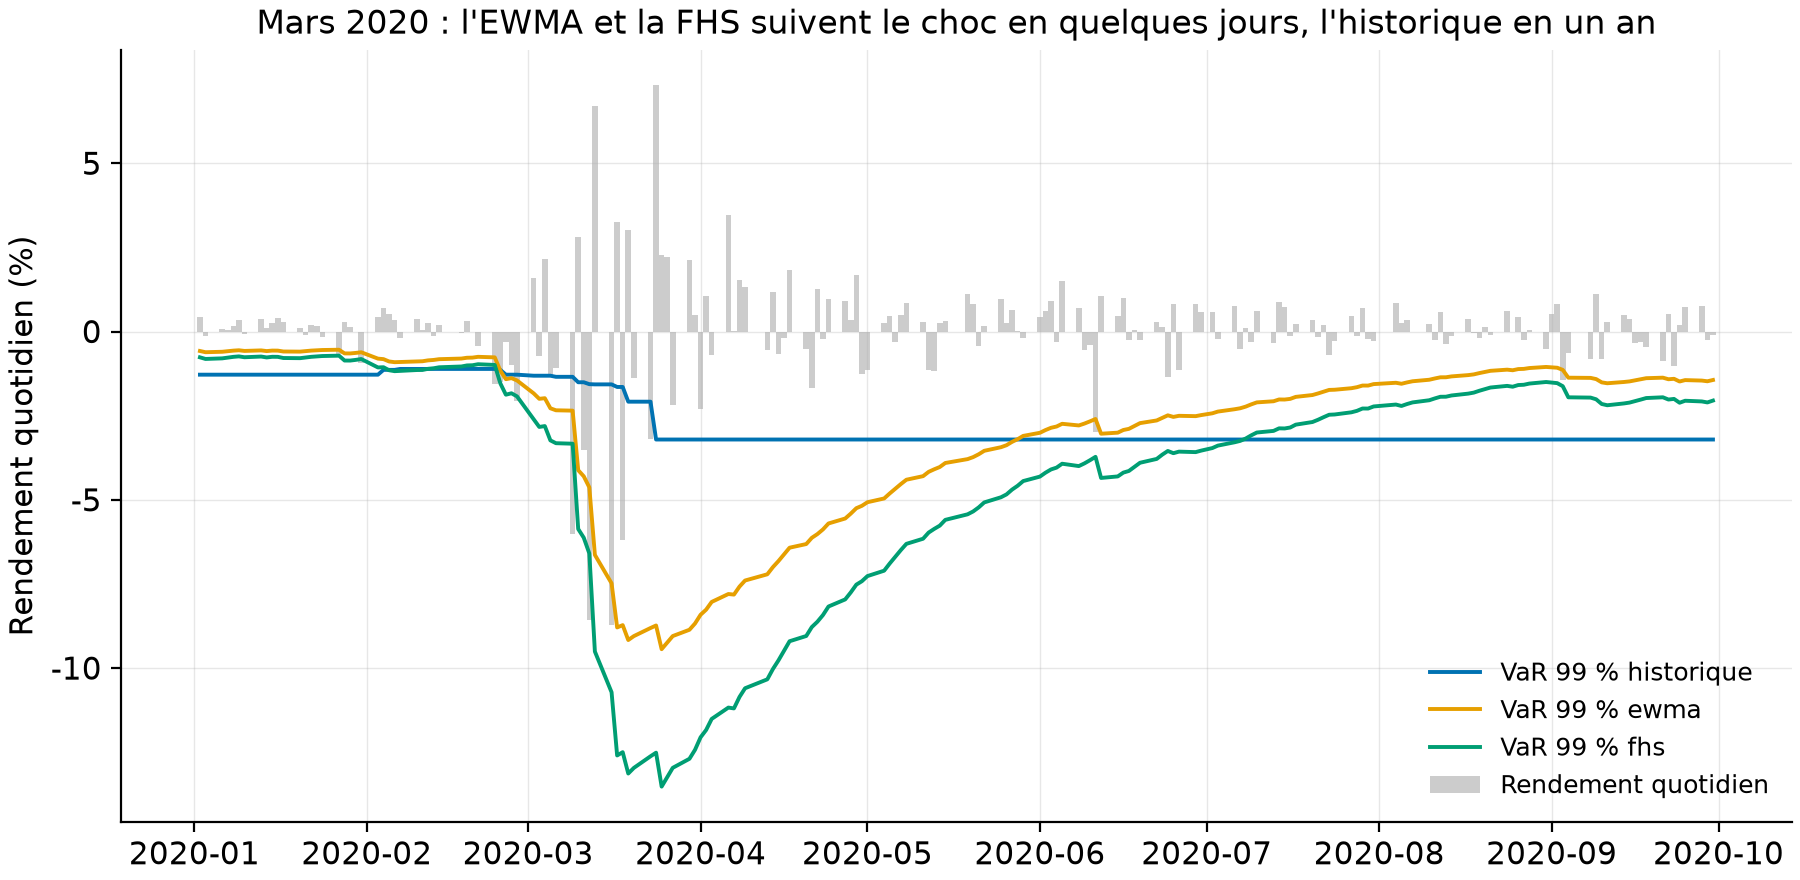
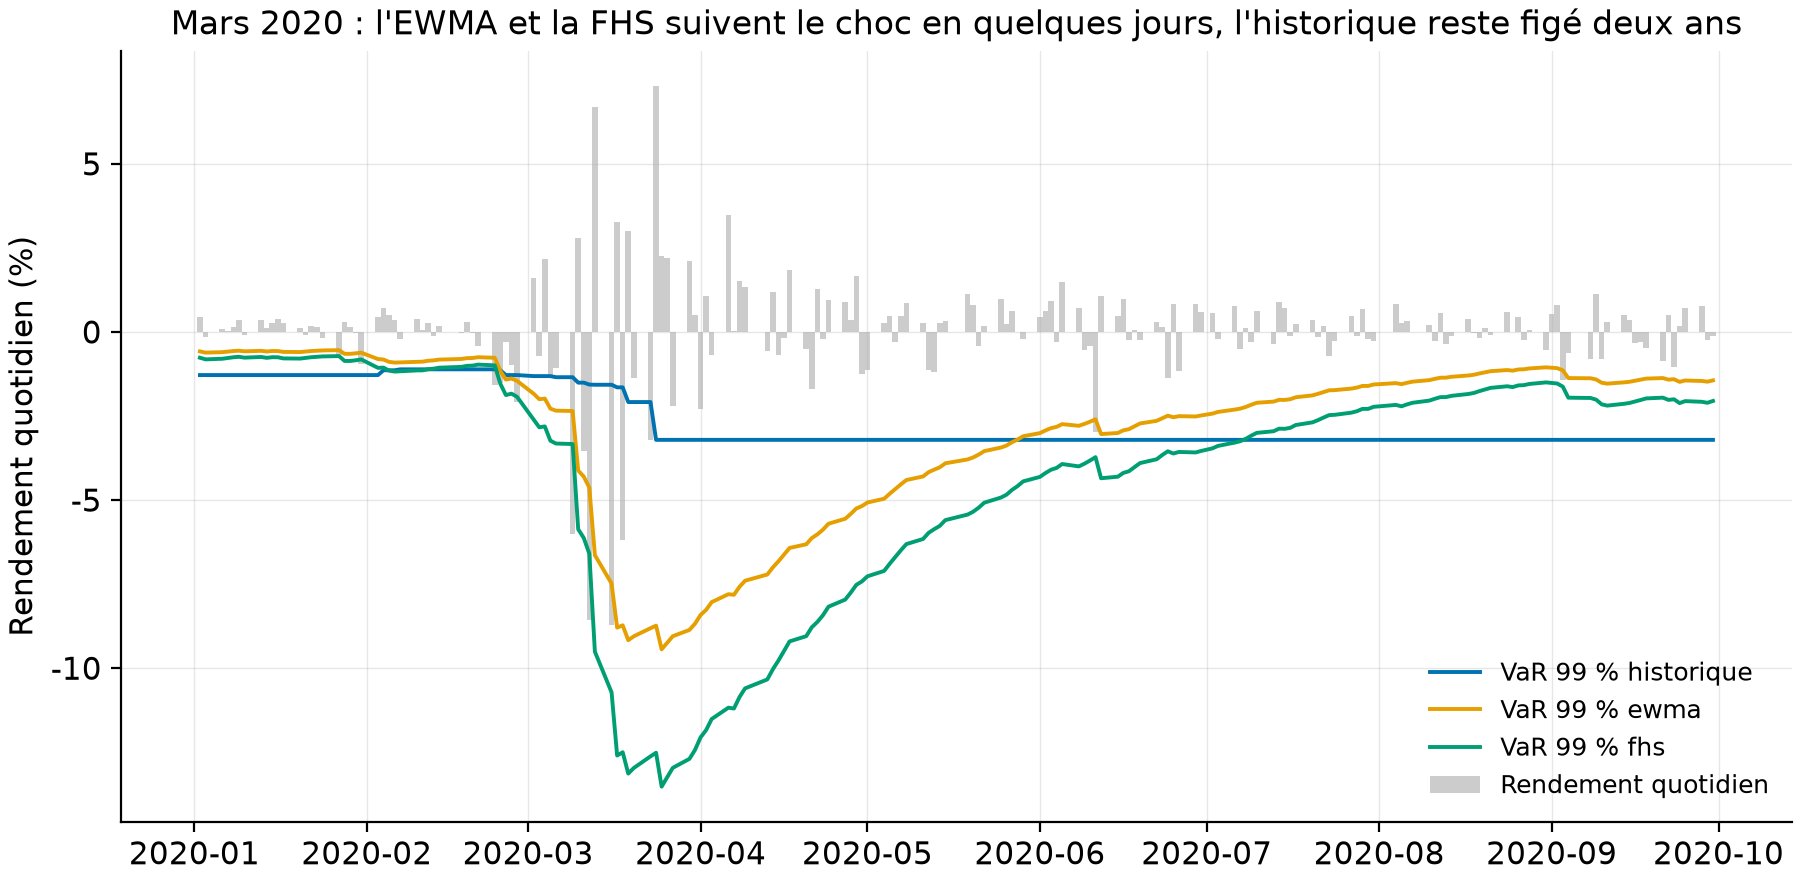
Six écarts de la vérification adversariale corrigés : fenêtre 500 j dans la légende et la figure, arrondis exacts
- figure du cône : étiquette « historique (500 j) » (250 était faux), titre de la réactivité
  ajusté (le plateau historique tient deux ans, jusqu'en mars 2022)
- README : 1,74 % (pas 1,75), ratio ES FHS 0,97 (pas 0,98), plateau 3,2 % jusqu'en mars 2022,
  FHS jusqu'à 13,5 %, classement ES précisé (le Student recule derrière le GARCH)
- vérification adversariale par ailleurs blanche : formules refaites à la main conformes
  (Kupiec, Christoffersen, Bâle, Z2, ES gaussien et Student, EWMA, GARCH), zéro fuite temporelle

diff --git a/src/rke/figures.py b/src/rke/figures.py
@@ -39,7 +39,7 @@ def fig_var_cone(returns: pd.Series, var_hist: pd.Series, var_fhs: pd.Series,
     fig, ax = plt.subplots(figsize=(10, 4.6))
     r = returns.reindex(var_fhs.index)
     ax.plot(r.index, 100 * r, color="0.75", linewidth=0.5, label="Rendement quotidien")
-    ax.plot(var_hist.index, -100 * var_hist, color=OKABE_ITO[0], label="VaR 99 % historique (250 j)")
+    ax.plot(var_hist.index, -100 * var_hist, color=OKABE_ITO[0], label="VaR 99 % historique (500 j)")
     ax.plot(var_fhs.index, -100 * var_fhs, color=OKABE_ITO[3], linewidth=1.0,
             label="VaR 99 % simulation historique filtrée")
     hits = r[r < -var_fhs]
@@ -93,7 +93,7 @@ def fig_reactivity(returns: pd.Series, forecasts: dict[str, pd.DataFrame], start
     ax.yaxis.set_major_formatter(fr)
     ax.xaxis.set_major_locator(mdates.MonthLocator())
     ax.xaxis.set_major_formatter(mdates.DateFormatter("%Y-%m"))
-    ax.set_title("Mars 2020 : l'EWMA et la FHS suivent le choc en quelques jours, l'historique en un an")
+    ax.set_title("Mars 2020 : l'EWMA et la FHS suivent le choc en quelques jours, l'historique reste figé deux ans")
     ax.legend(loc="lower right", fontsize=9)
     fig.savefig(dest)
     plt.close(fig)

diff --git a/README.md b/README.md
@@ -95,7 +95,7 @@ régénérés par `uv run rke backtest` ; 5 476 jours communs, novembre 2004 à 
 | Modèle | Dépassements (54,8 attendus) | Taux | p Kupiec | p indépendance | VaR moyenne |
 |---|---:|---:|---:|---:|---:|
 | **FHS** | **69** | **1,26 %** | **0,063** | 0,012 | 1,62 % |
-| Historique | 89 | 1,63 % | 0,000 | 0,000 | 1,75 % |
+| Historique | 89 | 1,63 % | 0,000 | 0,000 | 1,74 % |
 | Student-t | 89 | 1,63 % | 0,000 | 0,000 | 1,78 % |
 | GARCH(1,1) normal | 121 | 2,21 % | 0,000 | 0,192 | 1,29 % |
 | EWMA | 128 | 2,34 % | 0,000 | 0,277 | 1,30 % |
@@ -108,7 +108,7 @@ trop ; les modèles à queue riche mais niveau figé (historique, Student) ont l
 de dépassements mais les font en grappes (p d'indépendance nulle), le pire moment possible. Ensuite,
 la FHS, qui combine queue empirique et volatilité EWMA, est la seule à passer Kupiec ; son p
 d'indépendance de 0,012 reste sous 5 %, aucun modèle n'est parfait et c'est écrit. Enfin, le prix
-de la prudence se lit dans la dernière colonne : l'historique immobilise une VaR moyenne de 1,75 %
+de la prudence se lit dans la dernière colonne : l'historique immobilise une VaR moyenne de 1,74 %
 pour échouer quand même, la FHS fait mieux avec 1,62 %.
 
 ![Cône de VaR et dépassements](results/figures/cone_var.png)
@@ -116,8 +116,8 @@ pour échouer quand même, la FHS fait mieux avec 1,62 %.
 Comment lire cette figure : le trait gris est le rendement quotidien du portefeuille, les deux
 courbes sont moins la VaR 99 % annoncée la veille (historique en bleu, FHS en vermillon), et chaque
 triangle un jour où la perte a traversé la VaR de la FHS. La courbe historique forme des marches :
-elle descend après les crises et reste basse un an, le temps que la fenêtre de 250 jours oublie ;
-la courbe FHS descend pendant la crise et remonte quelques semaines après.
+elle descend après les crises et reste basse environ deux ans, le temps que la fenêtre de 500 jours
+oublie ; la courbe FHS descend pendant la crise et remonte quelques semaines après.
 
 ![Feux tricolores de Bâle](results/figures/feux_bale.png)
 
@@ -131,14 +131,15 @@ le gaussien cumule six années rouges. C'est le tableau qu'un comité de risque 
 
 Comment lire cette figure : les barres grises sont les rendements quotidiens de janvier à septembre
 2020, les courbes moins la VaR 99 % de trois modèles. L'historique (bleu) met deux semaines à
-réagir puis reste figé à 3,3 % jusqu'en 2021 ; l'EWMA et la FHS plongent avec le choc (la FHS
-jusqu'à 13 %) puis reviennent en quelques mois. La VaR historique est en retard dans les deux sens :
-trop basse pendant la crise, trop haute longtemps après.
+réagir puis reste figé à 3,2 % jusqu'en mars 2022 ; l'EWMA et la FHS plongent avec le choc (la FHS
+jusqu'à 13,5 %) puis reviennent en quelques mois. La VaR historique est en retard dans les deux
+sens : trop basse pendant la crise, trop haute longtemps après.
 
-Sur l'Expected Shortfall à 97,5 %, le niveau de la FRTB : même classement (`backtests_es975.csv`),
-la FHS affiche le Z2 le plus proche de zéro (−0,16) et un ratio perte réalisée sur ES annoncé de
-0,98 les jours de dépassement, contre 1,36 pour le gaussien, qui sous-estime donc ses pertes de
-queue d'un bon tiers.
+Sur l'Expected Shortfall à 97,5 %, le niveau de la FRTB (`backtests_es975.csv`) : la FHS reste
+première (158 dépassements pour 136,9 attendus, p = 0,075) et le gaussien dernier, le Student
+reculant derrière le GARCH ; la FHS affiche le Z2 le plus proche de zéro (−0,16) et un ratio perte
+réalisée sur ES annoncé de 0,97 les jours de dépassement, contre 1,36 pour le gaussien, qui
+sous-estime donc ses pertes de queue d'un bon tiers.
 
 ## 6. Reproduire
 
